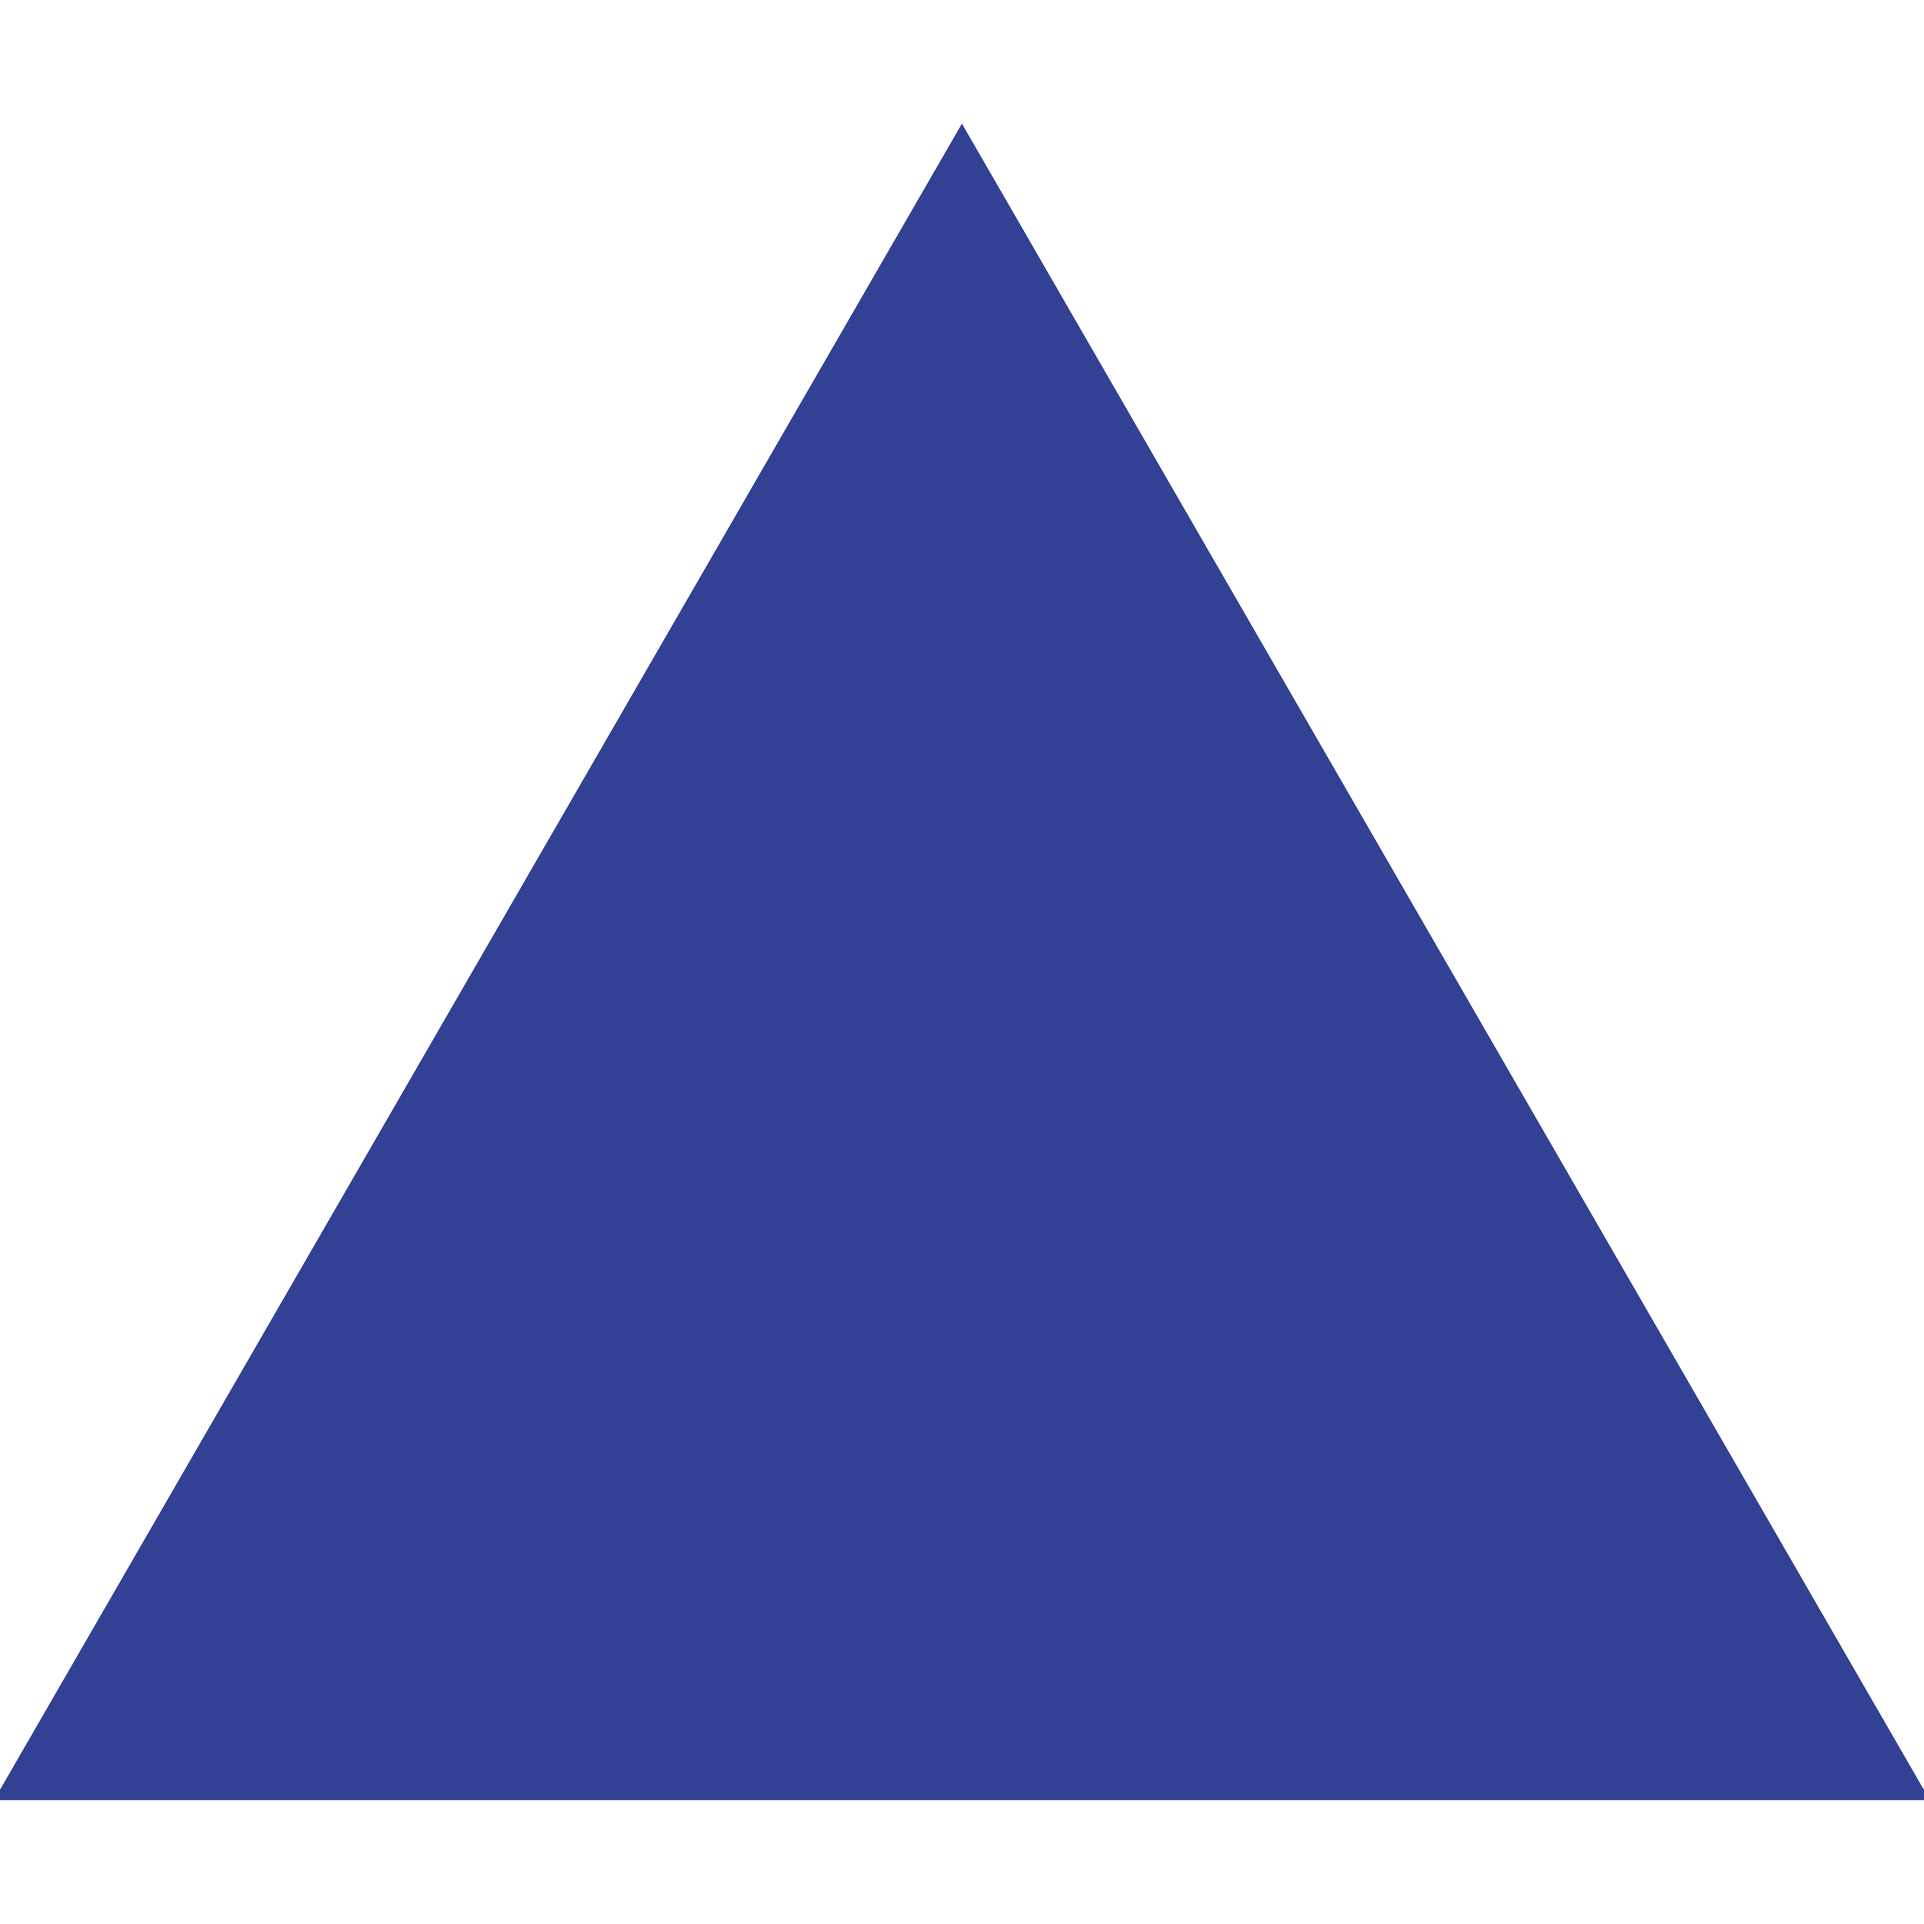
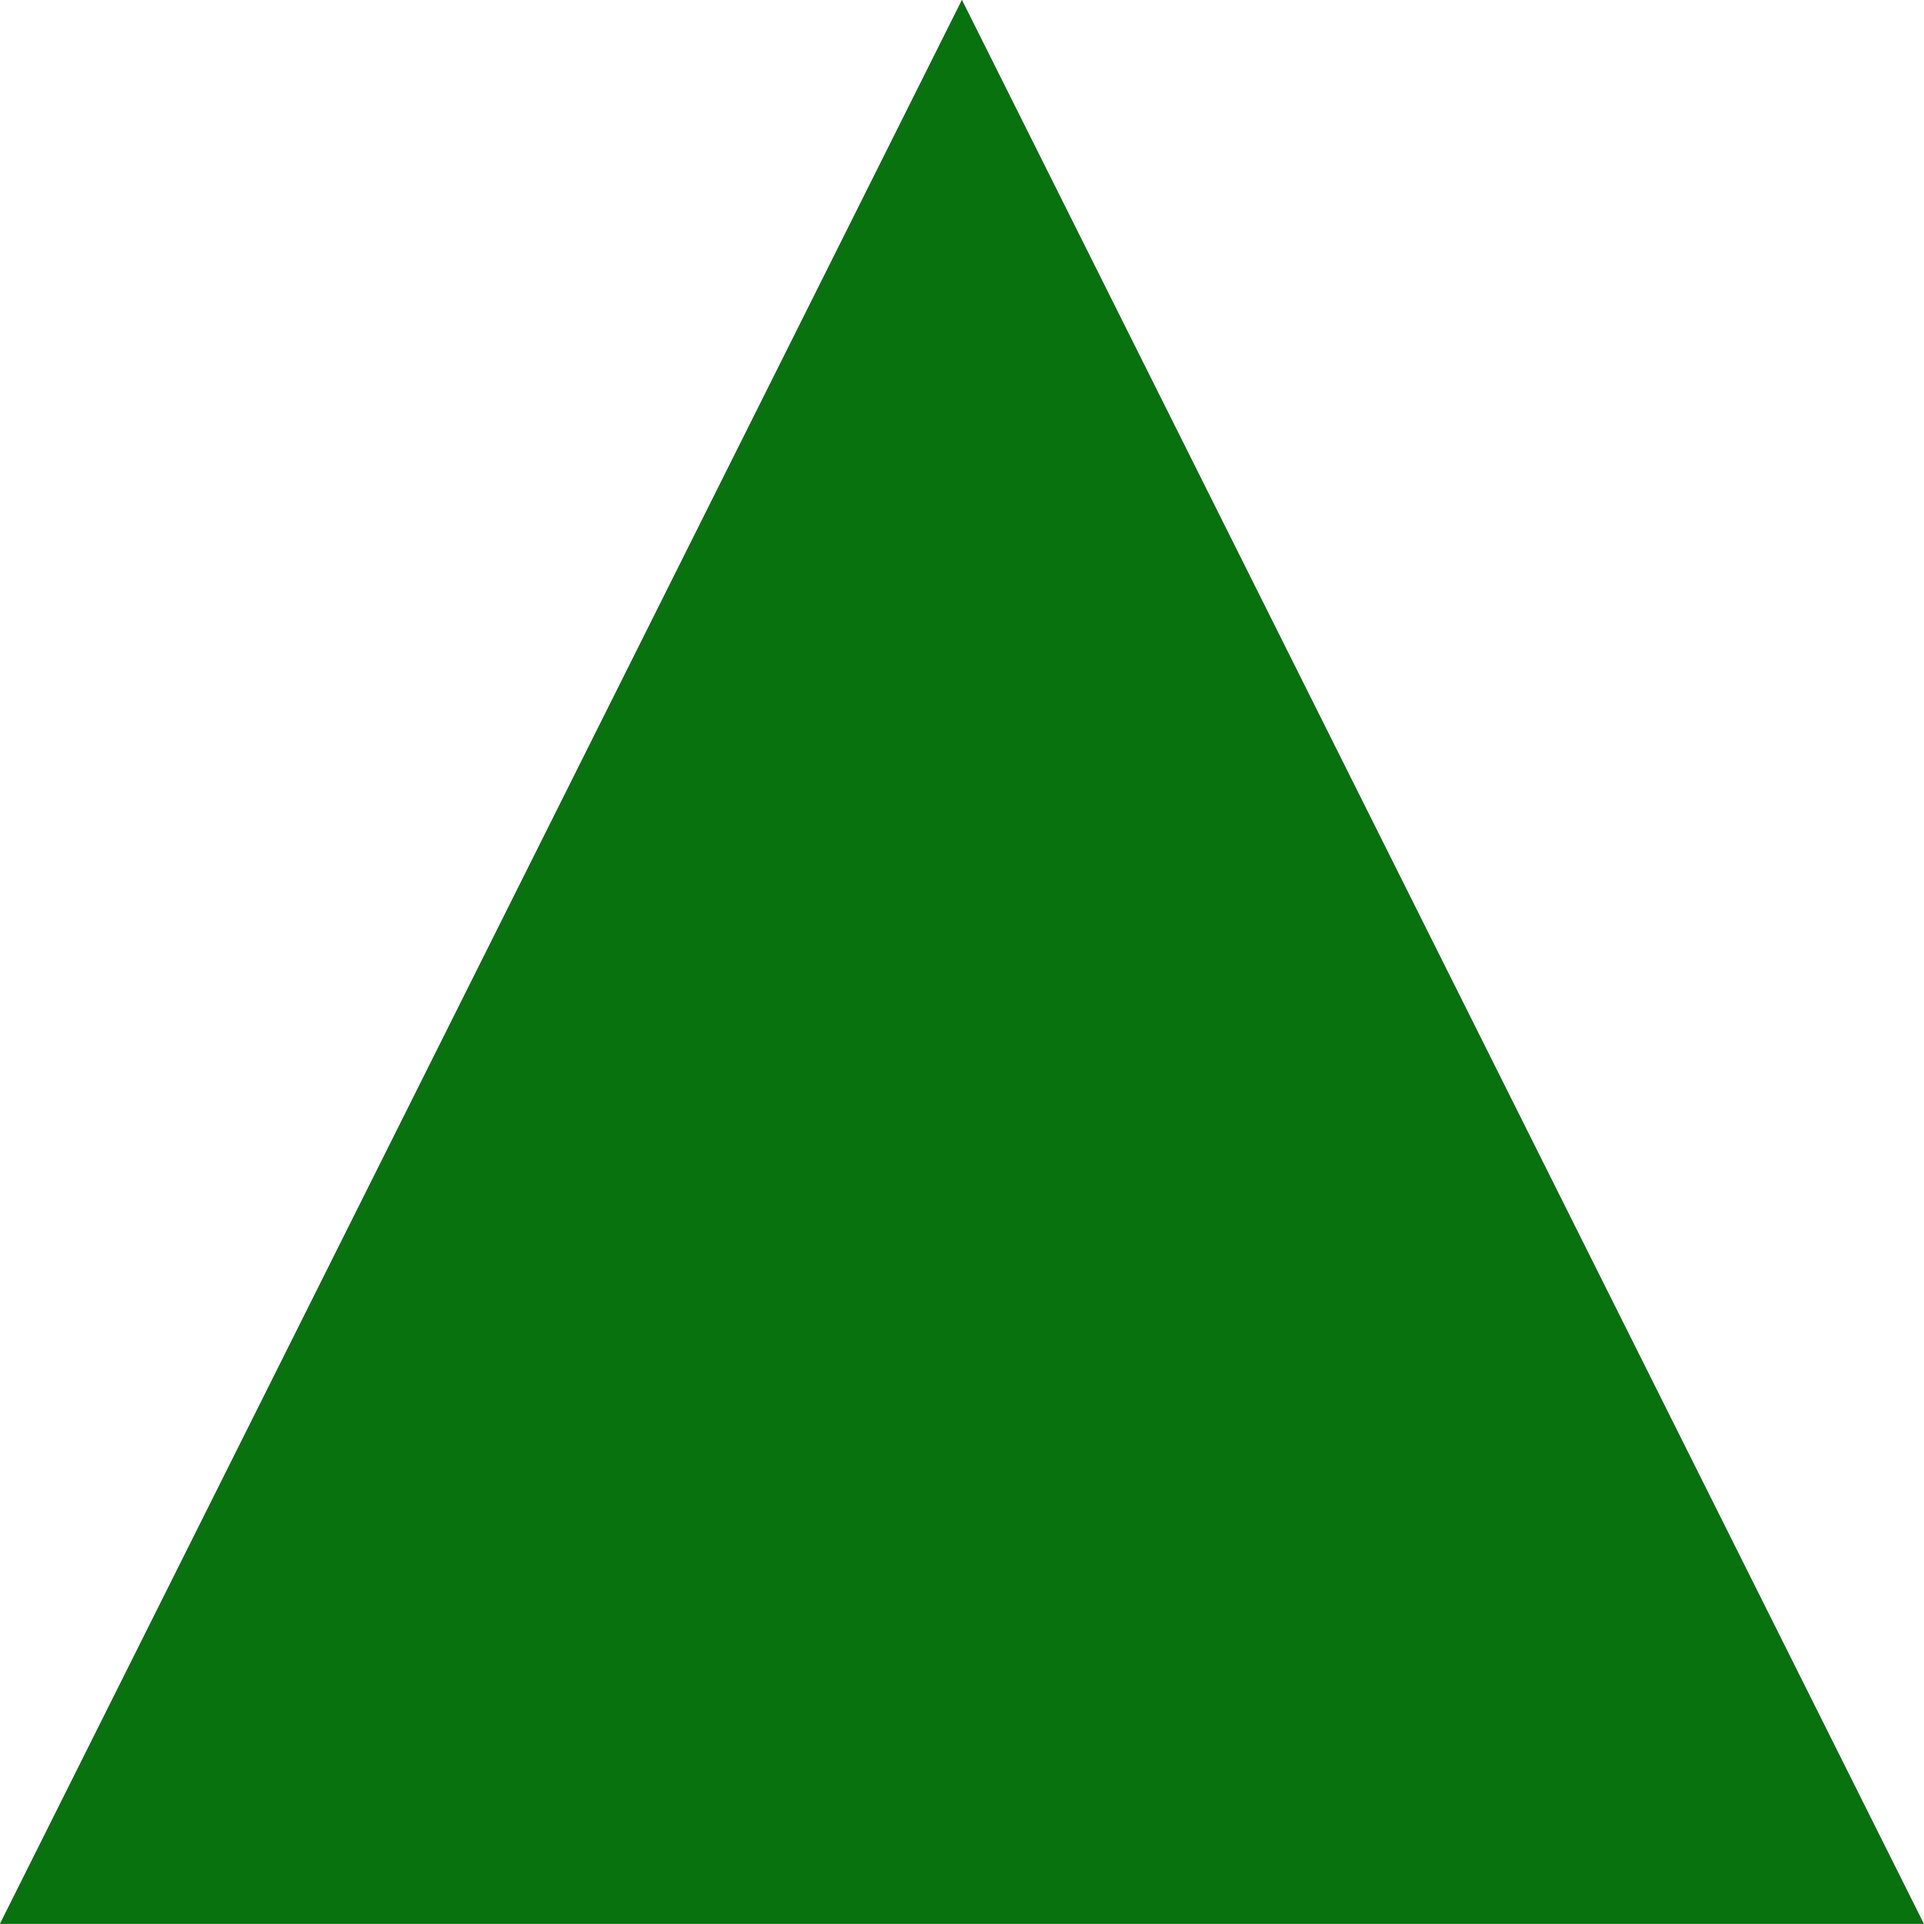
New graphics

diff --git a/index.html b/index.html
@@ -37,7 +37,7 @@
         Hello! <img class="icon" src="./Assets/Graphics/circle.png" alt="" /> My
         name is Lova and I am a Multimedia Designer &amp; Digital Product
         Developer
-        <img class="icon" src="./Assets/Graphics/diamond.png" alt="" />
+        <img class="icon" src="./Assets/Graphics/square.png" alt="" />
         I like to work with bold, clean &amp; expressive visions that always
         tells a story
         <img class="icon" src="./Assets/Graphics/triangle.png" alt="" />
